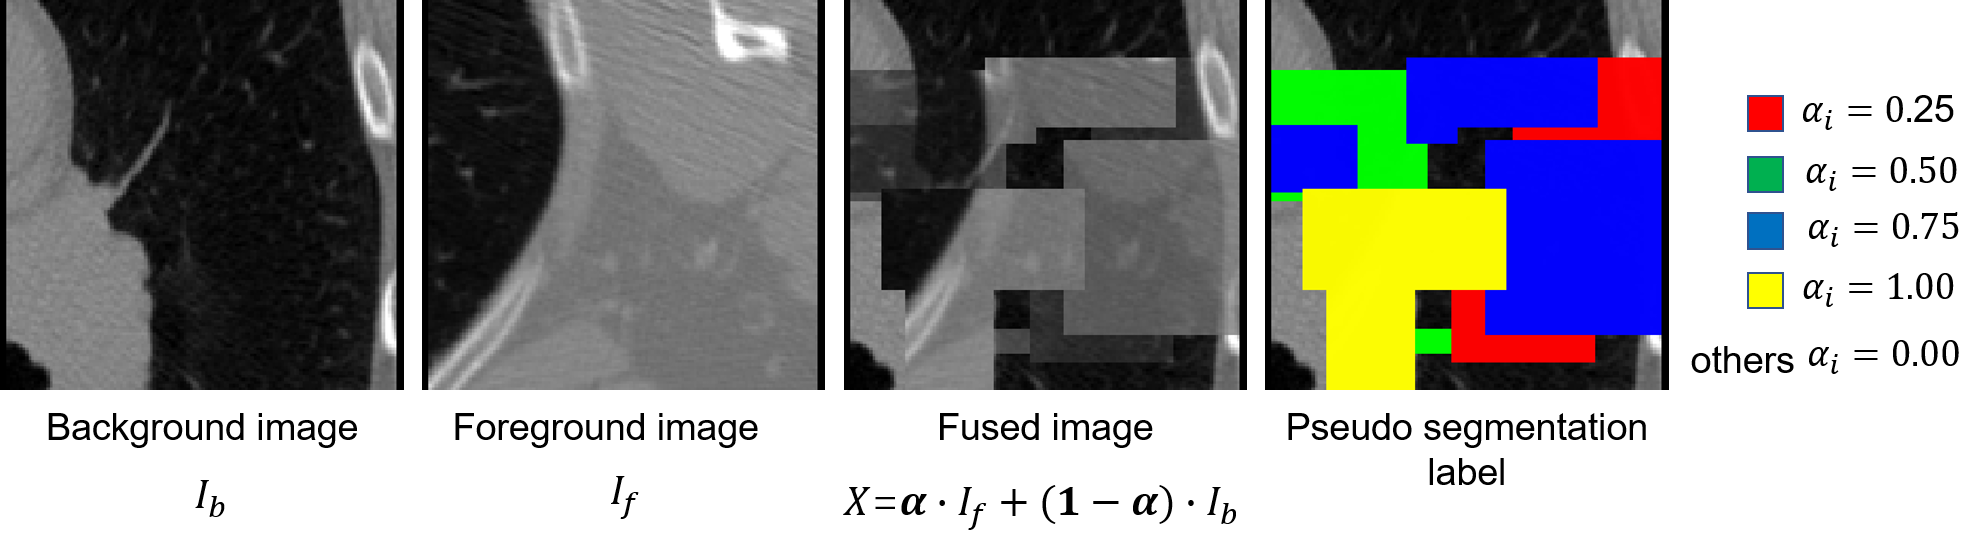
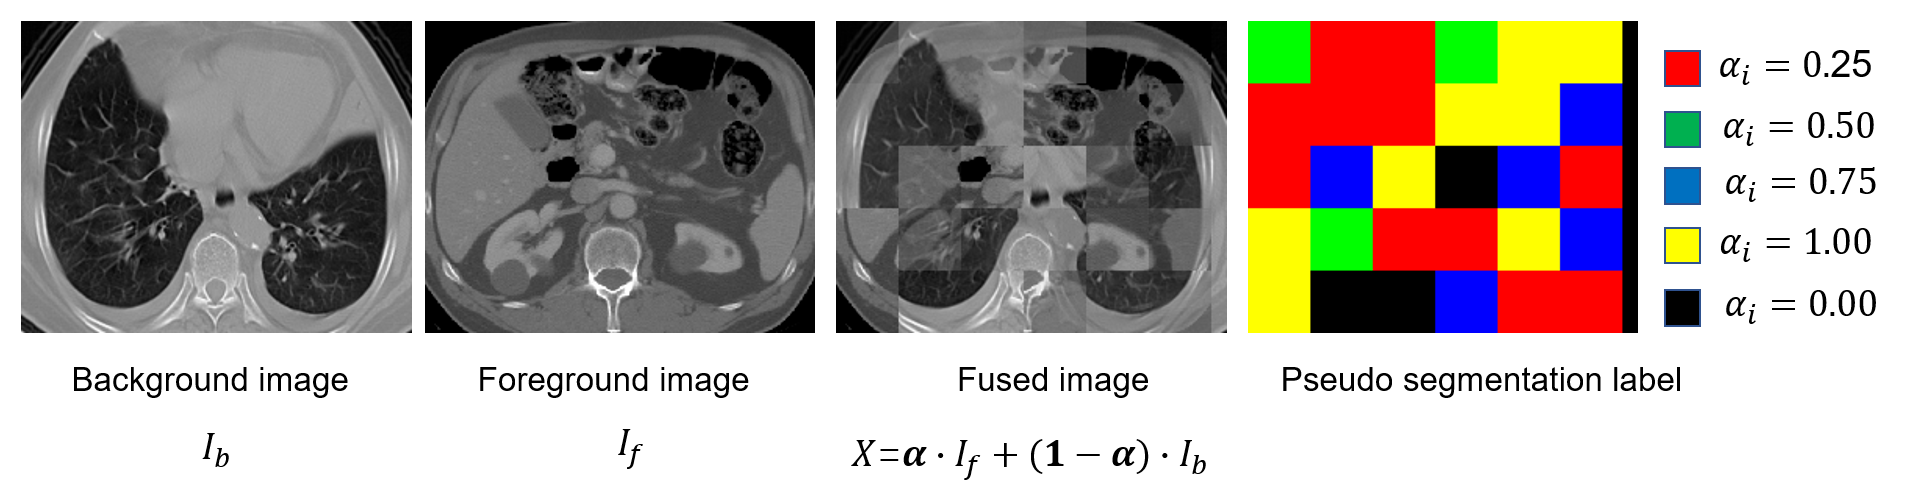
update self-supervised training demo

diff --git a/seg_self_sup/lung/README.md b/seg_self_sup/lung/README.md
@@ -4,15 +4,17 @@ In this example, we show self-supervised training methods for segmentation imple
 Currently, the following self-supervised methods are implemented:
 |PyMIC Method|Reference|Remarks|
 |---|---|---|
-|SelfSupVolumeFusion| [Wang et al., Arxiv 2023][vf_paper]| Volume Fusion|
+|SelfSupVolumeFusion| [Wang et al., Arxiv 2023][vf_paper]| Volume Fusion (VolF)|
 |SelfSupModelGenesis| [Zhou et al., MIA 2021][mg_paper]| Model Genesis|
 |SelfSupPatchSwapping| [Chen et al., MIA 2019][ps_paper]| Patch Swapping|
+|SelfSupVox2Vec|  [Goncharov et al., MICCAI 2023][vox2vec_paper]| Vox2vec|
 
 [vf_paper]:https://arxiv.org/abs/2306.16925
 [mg_paper]:https://www.sciencedirect.com/science/article/pii/S1361841520302048
 [ps_paper]:https://www.sciencedirect.com/science/article/pii/S1361841518304699
+[vox2vec_paper]:https://link.springer.com/chapter/10.1007/978-3-031-43907-0_58
 
-The following figure shows a performance comparison between training from scratch and with Volume Fusion-bsed pretraining. It can be observed that the pretraining largely improves the convergence of the model and leads to a better final performance.
+The following figure shows a performance comparison between training from scratch and with Volume Fusion (VolF)-bsed pretraining. It can be observed that the pretraining largely improves the convergence of the model and leads to a better final performance.
 
 <img src="https://github.com/HiLab-git/PyMIC_examples/blob/dev/seg_self_sup/lung/pictures/valid_dice2.png" width="600">
 
@@ -39,8 +41,8 @@ python get_luna_csv.py
 Note that the path of folder containing the preprocessed LUNA dataset should be correctly set in the script. Then we obtain two csv files: `config/luna_data/luna_train.csv` and `config/luna_data/luna_valid.csv`, and they are for training and validaiton images, respectively.
 
 
-## Volume Fusion for pretraining
-For Volume Fusion, we need to  create a validation dataset that contains fused volumes and the ground truth for the pretext task, i.e., a pseudo-segmentation task. Do this by runing the following command:
+## VolF for pretraining
+For VolF, we need to  create a validation dataset that contains fused volumes and the ground truth for the pretext task, i.e., a pseudo-segmentation task. Do this by runing the following command:
 
 ```bash
 pymic_preprocess config/luna_data/preprocess_volumefusion.cfg
@@ -49,13 +51,15 @@ pymic_preprocess config/luna_data/preprocess_volumefusion.cfg
 The parameters for volume fusion are:
 
 ```bash
-VolumeFusion_cls_num  = 5 
-VolumeFusion_block_range = [10, 40]
-VolumeFusion_size_min = [8,  8, 8]
-VolumeFusion_size_max = [40, 80, 80]
+transform = [Crop4VolumeFusion, VolumeFusion]
+Crop4VolumeFusion_output_size = [64, 128, 128]
+VolumeFusion_cls_num = 5
+VolumeFusion_foreground_ratio = 0.7
+VolumeFusion_patchsize_min    = [5, 8, 8]
+VolumeFusion_patchsize_max    = [20, 32, 32]
 ```
 
-where we generate 5 classes of voxels (including the background), and the block number for fusion ranges from 10 to 40, and the block size ranges from [8, 8, 8] and [40, 80, 80]. The generated validation set for volume fusion is saved in `./pretrain_valid/volumefusion`. Blow is an example of the fused volume and the ground truth for the pseudo-segmentation task:
+where we generate 5 classes of voxels (including the background), and the block size ranges from [5, 8, 8] and [20, 32, 32]. The probability of a block being set as foreground is 0.7. The generated validation set for volume fusion is saved in `./pretrain_valid/volumefusion`. Blow is an example of the fused volume and the ground truth for the pseudo-segmentation task:
 
 ![fusion_example](./pictures/fusion_example.png)
 
@@ -68,12 +72,21 @@ pymic_train config/luna_pretrain/unet3d_volumefusion.cfg
 The pretraining is just an image segmentation task, and the configurations related to the training process is:
 
 ```bash
+[dataset]
+...
+train_transform = [Crop4VolumeFusion, VolumeFusion, LabelToProbability]
+valid_transform = [CenterCrop, LabelToProbability]
+test_transform  = None
+
+Crop4VolumeFusion_output_size = [64, 128, 128]
+VolumeFusion_cls_num = 5
+VolumeFusion_foreground_ratio = 0.7
+VolumeFusion_patchsize_min    = [5, 8, 8]
+VolumeFusion_patchsize_max    = [20, 32, 32]
+
 [self_supervised_learning]
 method_name = VolumeFusion
 
-VolumeFusion_block_range = [10, 40]
-VolumeFusion_size_min    = [8,  8, 8]
-VolumeFusion_size_max    = [40, 80, 80]
 
 [training]
 # list of gpus
@@ -92,12 +105,12 @@ weight_decay  = 1e-5
 # for lr schedular
 lr_scheduler = StepLR
 lr_gamma = 0.5
-lr_step  = 40000
+lr_step  = 20000
 early_stop_patience = 60000
-ckpt_save_dir       = pretrain_model/unet3d_volumefusion
+ckpt_save_dir       = pretrain_model/unet3d_volf
 
-iter_max   = 120000
-iter_valid = 500
+iter_max   = 80000
+iter_valid = 1000
 iter_save  = 40000
 ```
 
@@ -155,8 +168,8 @@ lr_scheduler = StepLR
 lr_gamma = 0.5
 lr_step  = 4000
 early_stop_patience = 6000
-ckpt_save_dir       = lctsc_model/unet3d_volumefusion
-ckpt_init_name      = ../../pretrain_model/unet3d_volumefusion/unet3d_volumefusion_best.pt
+ckpt_save_dir       = lctsc_model/unet3d_volf
+ckpt_init_name      = ../../pretrain_model/unet3d_volf/unet3d_volf_best.pt
 ckpt_init_mode      = 0
 ``` 
 
@@ -248,7 +261,7 @@ pymic_test config/lctsc_train/unet3d_volumefusion.cfg
 pymic_test config/lctsc_train/unet3d_scratch.cfg
 ``` 
 
-The predictions are saved in `lctsc_result/unet3d_volumefusion` and `lctsc_result/unet3d_scratch`, respectively. To obtain the quantitative evaluaiton scores in terms of Dice, run:
+The predictions are saved in `lctsc_result/unet3d_volf` and `lctsc_result/unet3d_scratch`, respectively. To obtain the quantitative evaluaiton scores in terms of Dice, run:
 
 ```bash
 pymic_eval_seg -cfg config/evaluation.cfg
@@ -258,12 +271,12 @@ Note that we do not use any post-processing methods. The average Dice (%) for ea
 |Method |Esophagus |Heart |Spinal cord |Lung |Average |
 |---|---|---|---|---|---|
 |From Scratch               | 68.89 | 89.86 | 85.50 | 97.23 | 85.37 |
-|Pretrain with Volume Fusion| 73.38 | 91.61 | 86.20 | 97.35 | 87.14 |
+|Pretrain with VolF| 73.38 | 91.61 | 86.20 | 97.35 | 87.14 |
 
 ## Using other self-supervised pretraining methods
-In addition to Volume Fusion, you can also try other self-supervised pretraining methods including Model Genesis and Patch Swapping.
+In addition to Volume Fusion, you can also try other self-supervised pretraining methods including Model Genesis, Patch Swapping and Vox2vec.
 ### Pretraining with Model Genesis
-Similarly to Volume Fusion, we need to  create a validation dataset that contains corrupted input images and the ground truth for the pretext task, i.e., image reconstruction task. Do this by runing the following command:
+Similarly to VolF, we need to  create a validation dataset that contains corrupted input images and the ground truth for the pretext task, i.e., image reconstruction task. Do this by runing the following command:
 
 ```bash
 pymic_preprocess config/luna_data/preprocess_genesis.cfg
@@ -298,4 +311,25 @@ pymic_train config/luna_pretrain/unet3d_patchswap.cfg
 Finally, we initialize 3D UNet with the pretrained weights for downstream segmentation:
 ```bash
 pymic_train config/lctsc_train/unet3d_patchswap.cfg
+``` 
+
+### Pretraining with Vox2vec
+See `luna_pretrain/unet3d_vox2vec.cfg` for detailed configuration of Vox2vec. Note that this method requires a pair of overlapped cropping for contrastive learning. The corresponding setting is:
+
+```bash
+train_transform = [Crop4Vox2Vec]
+Crop4Vox2Vec_output_size = [64, 128, 128]
+Crop4Vox2Vec_min_overlap = [48, 96, 96]
+```
+
+The following command is used for pretraining:
+
+```bash
+pymic_train config/luna_pretrain/unet3d_vox2vec.cfg
+```
+
+Then, initialize 3D UNet with the pretrained weights for downstream segmentation:
+
+```bash
+pymic_train config/lctsc_train/unet3d_vox2vec.cfg
 ``` 
